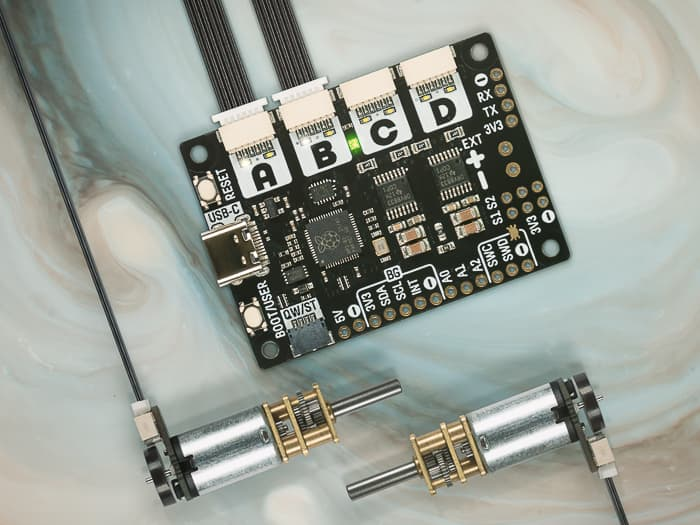
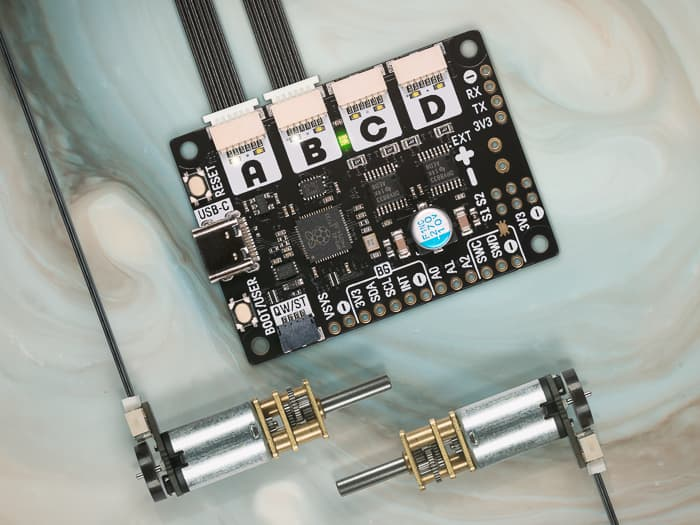
Updated Motor2040 images and description to match final product

diff --git a/_board/pimoroni_motor2040.md b/_board/pimoroni_motor2040.md
@@ -6,7 +6,7 @@ name: "Motor 2040"
 manufacturer: "Pimoroni"
 board_url: "https://shop.pimoroni.com/products/motor-2040"
 board_image: "pimoroni_motor2040.jpg"
-date_added: 2022-4-8
+date_added: 2022-6-15
 family: raspberrypi
 features:
   - Robotics
@@ -22,14 +22,28 @@ A compact 4 channel motor+encoder controller, powered by RP2040. It has RGB and 
 - 2MB of QSPI flash supporting XiP
 - 2 Dual H-Bridge motor drivers (DRV8833)
 - 4 JST-SH connectors (6 pin) for attaching motors
+- Wide voltage range for motors and logic (2.7V to 10V)
+- On-board 3V3 regulator with input up to 13.2V (max regulator current output 150mA)
 - Onboard voltage, current and fault sensing
-- Per motor current limiting (0.5A)
-- Per motor direction indicator LEDs
+- Per motor current limiting (0.5A) \*
+- Per motor direction indicator LEDs **
 - Addressable RGB LED/Neopixel
 - Reset and BOOT button (the BOOT button can also be used as a user button)
 - USB-C connector for programming and power (3A max)
 - Qw/ST (Qwiic/STEMMA QT) connector for breakouts
 
+## Powering Motor 2040
+Motor 2040 can be powered either by plugging the board into a USB-C power source (like a PC or power adapter) or by connecting a battery pack to the EXT PWR or VSYS connections. On an unmodified board, **you should only have one power source connected at a time**, to avoid back-powering your computer or battery.
+
+If you want to have two power sources connected at the same time, Motor 2040 has two traces on its underside that you can cut to do this safely.
+
+- **Cut EXT PWR to VSYS** if you want to provide your motors with a separate power supply (up to 10V) from that used to power the rest of the board. Board power (up to 13.2V) will need to be provided either by USB 5V or VSYS.
+- **Cut USB 5V to VSYS** if you want to run the board entirely off a separate power supply, without worry of back-powering your computer. Note that this also means the board will not turn on when only connected by USB.
+
+## Notes
+- \* The current limit of each motor can be disabled by soldering the "high current" pads on the rear (doing this will also disable the current monitoring). The maximum supported output current is 1.2 A continuous (2 A peak) per motor.
+- ** The direction indicators for each motor can be disabled by cutting the "motor LED" traces on the rear.
+- The pinout of the JST-SH motor connectors is M+, M-, 3v3, A, B, GND.
 
 ## About RP2040
 Raspberry Pi's RP2040 microcontroller is a dual core ARM Cortex M0+ running at up to 133Mhz. It bundles in 264kB of SRAM, 30 multifunction GPIO pins (including a four channel 12-bit ADC), a heap of standard peripherals (I2C, SPI, UART, PWM, clocks, etc), and USB support.
